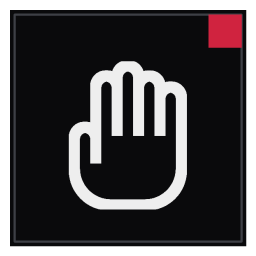
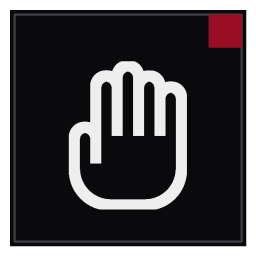
Darker blood-red accent and a more aggressive interface
Accent #9a0d22 (light theme #850a1c), also in the video overlays and icon.
Warning-tape stripes on panel headers, the active menu item, page titles, the
sidebar, the COVERING plate and on primary buttons when hovered; red top edge
on every panel; larger headings; heavier red viewfinder corners.

Changed region(s): [[0.8125, 0.0312, 0.9688, 0.1875]]

diff --git a/src/handtrack/ui/widgets.py b/src/handtrack/ui/widgets.py
@@ -135,6 +135,7 @@ class Toggle(QAbstractButton):
         x = rect.left() + half * self._pos
         p.setPen(Qt.PenStyle.NoPen)
         p.setBrush(theme.mix(theme.c("surface3"), theme.c("accent"), self._pos))
+        p.setPen(Qt.PenStyle.NoPen)
         p.drawRect(QRectF(x + 2, rect.top() + 2, half - 4, rect.height() - 4))
         p.setFont(self._font)
         on = self._pos > 0.5
@@ -203,8 +204,8 @@ class Button(QAbstractButton):
         black = QColor("black")
         if self.kind in ("primary", "danger"):
             base = theme.c("danger" if self.kind == "danger" else "accent")
-            p.setBrush(theme.mix(base, black, 0.18 * self._press + 0.0 * h))
-            p.setPen(QPen(theme.mix(base, QColor("white"), 0.25 * h), 1))
+            p.setBrush(theme.mix(base, black, 0.25 * self._press))
+            p.setPen(QPen(theme.mix(base, QColor("white"), 0.35 * h), 1))
             fg = theme.c("accent_text")
         elif self.kind == "ghost":
             p.setBrush(theme.c("surface3", 0.8 * h))
@@ -215,6 +216,8 @@ class Button(QAbstractButton):
             p.setPen(QPen(theme.mix(theme.c("border"), theme.c("text"), 0.5 * h), 1))
             fg = theme.c("text")
         p.drawRect(rect)
+        if self.kind in ("primary", "danger") and h > 0.01:
+            theme.draw_hazard(p, rect.adjusted(1, 1, -1, -1), theme.c("stage", 0.22 * h), 12)
 
         text = self.text().upper()
         fm = QFontMetrics(self._font)
@@ -268,12 +271,15 @@ class Card(QFrame):
         p.drawRect(rect)
         if self._has_header:
             y = self.header.geometry().bottom() + 8.5
+            p.fillRect(QRectF(rect.left(), rect.top(), rect.width(), y - rect.top()), theme.c("surface2"))
             p.setPen(QPen(theme.c("border"), 1))
             p.drawLine(QPointF(rect.left(), y), QPointF(rect.right(), y))
-            # Red marker on the header edge.
             p.setPen(Qt.PenStyle.NoPen)
             p.setBrush(theme.c("accent"))
-            p.drawRect(QRectF(rect.left(), rect.top(), 3, y - rect.top()))
+            p.drawRect(QRectF(rect.left(), rect.top(), 5, y - rect.top()))      # header block
+            p.drawRect(QRectF(rect.left(), rect.top(), rect.width(), 2))          # red top edge
+            theme.draw_hazard(p, QRectF(rect.right() - 46, rect.top() + 2, 46, 5), theme.c("accent"),
+                              7, theme.c("stage"))
 
 
 # ------------------------------------------------------------- setting row ----
@@ -435,10 +441,11 @@ class NavIndicator(QWidget):
         p = QPainter(self)
         rect = QRectF(self.rect())
         p.setPen(Qt.PenStyle.NoPen)
-        p.setBrush(theme.c("surface3"))
+        p.setBrush(theme.mix(theme.c("surface3"), theme.c("accent"), 0.22))
         p.drawRect(rect)
         p.setBrush(theme.c("accent"))
-        p.drawRect(QRectF(0, 0, 3, rect.height()))
+        p.drawRect(QRectF(0, 0, 4, rect.height()))
+        theme.draw_hazard(p, QRectF(rect.right() - 18, 0, 18, rect.height()), theme.c("accent", 0.55), 6)
 
 
 class NavList(QWidget):

diff --git a/src/handtrack/ui/visuals.py b/src/handtrack/ui/visuals.py
@@ -36,9 +36,10 @@ def paint_covering(p, rect, phase, title, subtitle):
     p.drawRect(rect)
     p.setPen(Qt.PenStyle.NoPen)
     p.setBrush(red)
-    p.drawRect(QRectF(rect.left(), rect.top(), 3, rect.height()))
+    p.drawRect(QRectF(rect.left(), rect.top(), 4, rect.height()))
+    theme.draw_hazard(p, QRectF(rect.left() + 4, rect.bottom() - 4, rect.width() - 4, 4), red, 7)
 
-    cx, cy = rect.left() + 26, rect.center().y()
+    cx, cy = rect.left() + 26, rect.center().y() - 1
     on = int(phase * 4) % 2 == 0           # ~2 blinks per second
     p.setBrush(red if on else theme.c("accent", 0.45))
     p.drawPath(shield_path(cx, cy, 11))
@@ -48,7 +49,7 @@ def paint_covering(p, rect, phase, title, subtitle):
     p.drawLine(QPointF(cx - 1, cy + 3), QPointF(cx + 4, cy - 3))
 
     dots = "." * (1 + int(phase * 6) % 3)
-    p.setPen(red)
+    p.setPen(theme.mix(red, QColor("white"), 0.3))
     p.setFont(theme.mono(10, True, 1.5))
     p.drawText(QRectF(cx + 20, rect.top() + 5, rect.width() - 56, 20),
                Qt.AlignmentFlag.AlignVCenter, title + dots)
@@ -189,7 +190,7 @@ class PreviewWidget(QWidget):
         p.setPen(QPen(theme.c("border"), 1))
         p.setBrush(Qt.BrushStyle.NoBrush)
         p.drawRect(rect.adjusted(0.5, 0.5, -0.5, -0.5))
-        theme.draw_corner_marks(p, target.adjusted(6, 6, -6, -6), QColor(255, 255, 255, 170), 14, 1.5)
+        theme.draw_corner_marks(p, target.adjusted(6, 6, -6, -6), theme.c("accent"), 22, 3)
 
     def _readout(self, p, x, y, text, color=None, align_right=False, box=True):
         fm = p.fontMetrics()
@@ -243,15 +244,16 @@ class PreviewWidget(QWidget):
         title = self._texts[0]
         if self._state == self.STARTING:
             title += "." * (1 + int(self._phase * 8) % 3)
-        p.setPen(QColor(255, 255, 255, 230))
+        p.setPen(QColor(255, 255, 255, 235))
         p.drawText(QRectF(0, cy + 52, rect.width(), 30), Qt.AlignmentFlag.AlignCenter, title)
+        theme.draw_hazard(p, QRectF(cx - 90, cy + 112, 180, 6), theme.c("accent"), 8)
         p.setPen(QColor(255, 255, 255, 110))
         p.setFont(theme.mono(8.5, False, 0.4, upper=False))
         p.drawText(QRectF(0, cy + 84, rect.width(), 22), Qt.AlignmentFlag.AlignCenter, self._texts[1])
         # Signal-loss marker in the corner.
         on = int(self._phase * 4) % 2 == 0
         p.setFont(theme.mono(8.5, True, 1.0))
-        r = self._readout(p, 30, 30, "   NO SIGNAL", QColor(255, 255, 255, 200))
+        r = self._readout(p, 30, 30, "   NO SIGNAL", theme.mix(theme.c("accent"), QColor("white"), 0.35))
         p.setPen(Qt.PenStyle.NoPen)
         p.setBrush(theme.c("accent") if on else theme.c("accent", 0.3))
         p.drawRect(QRectF(r.left() + 7, r.center().y() - 3.5, 7, 7))

diff --git a/src/handtrack/ui/theme.py b/src/handtrack/ui/theme.py
@@ -23,12 +23,12 @@ DARK = {
     "text": "#ededee",
     "muted": "#8e8e97",
     "faint": "#56565d",
-    "accent": "#d0233f",      # signal red
+    "accent": "#9a0d22",      # dark blood red
     "accent2": "#3d2163",     # deep purple
     "accent_text": "#ffffff",
-    "success": "#d0233f",     # "on" states are red
+    "success": "#9a0d22",     # "on" states are red
     "ok": "#ededee",
-    "danger": "#d0233f",
+    "danger": "#9a0d22",
     "warning": "#7b4bc0",
     "stage": "#000000",
 }
@@ -43,12 +43,12 @@ LIGHT = {
     "text": "#0b0b0c",
     "muted": "#55555d",
     "faint": "#8f8f97",
-    "accent": "#b8132f",
+    "accent": "#850a1c",
     "accent2": "#3d2163",
     "accent_text": "#ffffff",
-    "success": "#b8132f",
+    "success": "#850a1c",
     "ok": "#0b0b0c",
-    "danger": "#b8132f",
+    "danger": "#850a1c",
     "warning": "#5b2f99",
     "stage": "#000000",
 }
@@ -235,6 +235,28 @@ def draw_corner_marks(painter, rect, color, length=8, width=1.5):
                          (r.left(), r.bottom(), 1, -1), (r.right(), r.bottom(), -1, -1)):
         painter.drawLine(QPointF(x, y), QPointF(x + dx * length, y))
         painter.drawLine(QPointF(x, y), QPointF(x, y + dy * length))
+
+
+def draw_hazard(painter, rect, color, step=8, back=None):
+    """Diagonal warning-tape stripes clipped to ``rect``."""
+    r = QRectF(rect)
+    painter.save()
+    painter.setClipRect(r)
+    if back is not None:
+        painter.fillRect(r, back)
+    painter.setPen(Qt.PenStyle.NoPen)
+    painter.setBrush(color)
+    x = r.left() - r.height()
+    while x < r.right():
+        path = QPainterPath()
+        path.moveTo(x, r.bottom())
+        path.lineTo(x + step / 2, r.bottom())
+        path.lineTo(x + step / 2 + r.height(), r.top())
+        path.lineTo(x + r.height(), r.top())
+        path.closeSubpath()
+        painter.drawPath(path)
+        x += step
+    painter.restore()
 
 
 def stylesheet():

diff --git a/src/handtrack/vision/render.py b/src/handtrack/vision/render.py
@@ -14,14 +14,14 @@ from handtrack.vision.geometry import EYE_VIZ_POINTS, FACE_MASK_ANCHOR_IDX, HAND
 logger = logging.getLogger("handtrack")
 
 STICKER_EXTENSIONS = (".png", ".jpg", ".jpeg", ".webp", ".bmp")
-SKELETON_COLOR = (63, 35, 208)     # BGR signal red
+SKELETON_COLOR = (34, 13, 154)     # BGR signal red
 JOINT_COLOR = (238, 238, 238)
 STICKER_SIZE_BUCKET = 8
 STICKER_ANGLE_BUCKET = 5
 STICKER_CACHE_SIZE = 192
 
 # Drawing colours (BGR): signal red, white, purple, safety orange, grey.
-DRAW_COLORS = ((63, 35, 208), (238, 238, 238), (176, 60, 110), (0, 120, 245), (140, 140, 140))
+DRAW_COLORS = ((34, 13, 154), (238, 238, 238), (176, 60, 110), (0, 120, 245), (140, 140, 140))
 
 
 # ---------------------------------------------------------------- stickers ----
@@ -194,7 +194,7 @@ def draw_privacy_mask(frame, box):
     r = min(w, h) * 0.22
     cx, cy = x1 + w / 2, y1 + h / 2
     pts = (_SHIELD * r + (cx, cy)).astype(np.int32)
-    cv2.polylines(frame, [pts], True, (63, 35, 208), max(2, int(r / 9)), cv2.LINE_AA)
+    cv2.polylines(frame, [pts], True, (34, 13, 154), max(2, int(r / 9)), cv2.LINE_AA)
 
 
 def draw_afk(frame, title, subtitle):
@@ -206,7 +206,7 @@ def draw_afk(frame, title, subtitle):
         cv2.line(frame, (x, h), (x + h, 0), (22, 22, 24), step // 2)
     (tw, th), _ = cv2.getTextSize(title, cv2.FONT_HERSHEY_DUPLEX, 3.0, 6)
     org = ((w - tw) // 2, (h + th) // 2)
-    cv2.putText(frame, title, org, cv2.FONT_HERSHEY_DUPLEX, 3.0, (63, 35, 208), 6, cv2.LINE_AA)
+    cv2.putText(frame, title, org, cv2.FONT_HERSHEY_DUPLEX, 3.0, (34, 13, 154), 6, cv2.LINE_AA)
     (sw, sh), _ = cv2.getTextSize(subtitle, cv2.FONT_HERSHEY_SIMPLEX, 0.85, 2)
     cv2.putText(frame, subtitle, ((w - sw) // 2, org[1] + sh + 26), cv2.FONT_HERSHEY_SIMPLEX,
                 0.85, (225, 225, 228), 2, cv2.LINE_AA)

diff --git a/src/handtrack/ui/pages.py b/src/handtrack/ui/pages.py
@@ -18,6 +18,18 @@ from handtrack.ui.widgets import (
 )
 
 
+class HazardRule(QWidget):
+    """Short warning-tape bar under a page title."""
+
+    def __init__(self, width=120):
+        super().__init__()
+        self.setFixedSize(width, 6)
+
+    def paintEvent(self, event):
+        p = QPainter(self)
+        theme.draw_hazard(p, QRectF(self.rect()), theme.c("accent"), 8, theme.c("stage"))
+
+
 def number_cards(page, code):
     """Give the page's panels running codes like 02.01, 02.02 …"""
     for i, card in enumerate(page.findChildren(Card), 1):
@@ -40,8 +52,9 @@ def page_header(title, subtitle=None, code=None):
     box = QVBoxLayout()
     box.setSpacing(2)
     if code:
-        box.addWidget(tag_label(f"HANDTRACK // {code}", "accent", 8))
-    box.addWidget(heading(title, 18, 2))
+        box.addWidget(tag_label(f"HANDTRACK // SECTION {code}", "accent", 8))
+    box.addWidget(heading(title, 24, 3))
+    box.addWidget(HazardRule())
     if subtitle:
         box.addWidget(label(subtitle, "subtitle", wrap=True))
     return box

diff --git a/src/handtrack/ui/main_window.py b/src/handtrack/ui/main_window.py
@@ -19,6 +19,7 @@ from handtrack.i18n import Translator
 from handtrack.ui import theme
 from handtrack.ui.overlays import GazeCalibrationOverlay
 from handtrack.ui.pages import (
+    HazardRule,
     FINGER_KEYS, CalibrationPage, CameraPage, EffectsPage, GesturesPage, SettingsPage,
 )
 from handtrack.ui.visuals import CoveringBadge, PreviewWidget, pattern_icon
@@ -178,13 +179,15 @@ class MainWindow(QMainWindow):
         brand.addWidget(logo)
         names = QVBoxLayout()
         names.setSpacing(0)
-        title = heading("HandTrack", 14, 2.5)
+        title = heading("HandTrack", 15, 3)
         sub = label(tr("app_subtitle"), "faint")
         names.addWidget(title)
         names.addWidget(sub)
         brand.addLayout(names, 1)
         side.addLayout(brand)
-        side.addSpacing(22)
+        side.addSpacing(10)
+        side.addWidget(HazardRule(200))
+        side.addSpacing(14)
 
         self.nav = NavList()
         for key, icon in (("nav_camera", "camera"), ("nav_effects", "effects"),

diff --git a/packaging/make_icon.py b/packaging/make_icon.py
@@ -26,7 +26,7 @@ def render():
     pad = 40
     cv2.rectangle(img, (pad, pad), (S - pad, S - pad), (12, 10, 10, 255), -1)
     cv2.rectangle(img, (pad + 18, pad + 18), (S - pad - 18, S - pad - 18), (70, 64, 62, 255), 8)
-    cv2.rectangle(img, (S - pad - 150, pad + 18), (S - pad - 18, pad + 150), (63, 35, 208, 255), -1)
+    cv2.rectangle(img, (S - pad - 150, pad + 18), (S - pad - 18, pad + 150), (34, 13, 154, 255), -1)
 
     gray = cv2.imdecode(np.fromfile(os.path.join(ASSETS, "hand_reference.png"), np.uint8),
                         cv2.IMREAD_GRAYSCALE)

diff --git a/src/handtrack/vcam.py b/src/handtrack/vcam.py
@@ -349,7 +349,7 @@ def _standby_frame(width, height):
     scale = max(0.9, width / 700)
     (tw, th), _ = cv2.getTextSize(text, cv2.FONT_HERSHEY_DUPLEX, scale, 2)
     cv2.putText(frame, text, ((width - tw) // 2, (height + th) // 2), cv2.FONT_HERSHEY_DUPLEX,
-                scale, (63, 35, 208), 2, cv2.LINE_AA)
+                scale, (34, 13, 154), 2, cv2.LINE_AA)
     return frame
 
 
